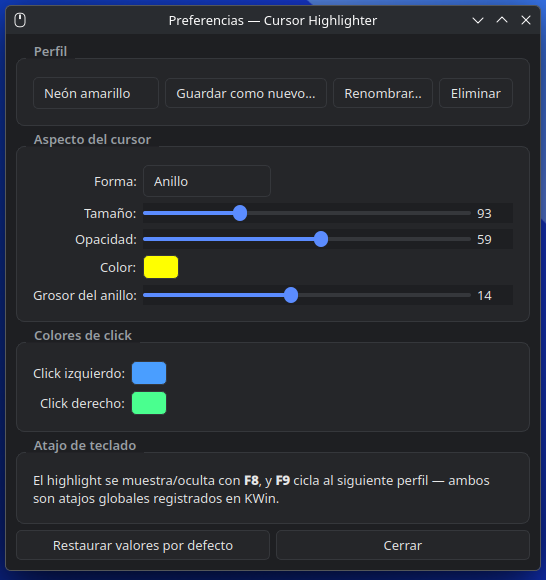
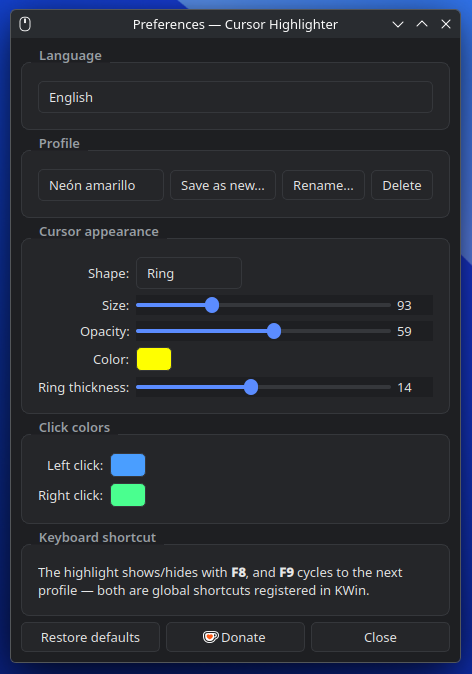
Update README screenshot and add demo GIF
Screenshot now reflects the current build (Language + Donate visible).
Added a GIF showing the highlight in action as the main visual, with the
Preferences screenshot tucked into a collapsible section.

diff --git a/README.md b/README.md
@@ -7,7 +7,14 @@ to lose track of the mouse on screen.
 It's free and open source. If it's useful to you and you'd like to support
 the project, there's a tip jar here: [ko-fi.com/marcoamontesve](https://ko-fi.com/marcoamontesve) ☕
 
+![Cursor Highlighter in action](docs/demo.gif)
+
+<details>
+<summary>Preferences window</summary>
+
 ![Preferences window](docs/screenshot.png)
+
+</details>
 
 ## Features
 